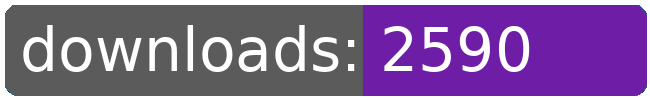
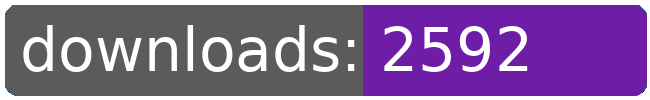
dl log written

Changed region(s): [[0.7692, 0.24, 0.8308, 0.72]]

diff --git a/README.md b/README.md
@@ -65,8 +65,8 @@
 		<td>138</td>
 		<td>178</td>
 		<td>215</td>
-		<td>247</td>
-		<td>+ 32</td>
+		<td>249</td>
+		<td>+ 34</td>
 	</tr>
 	<tr>
 		<td>gainpiraterep</td>
@@ -186,8 +186,8 @@
 		<td></td>
 		<td></td>
 		<td></td>
-		<td>2590</td>
-		<td>406</td>
+		<td>2592</td>
+		<td>408</td>
 	</tr>
 </table>
 </sub></sup>
@@ -256,8 +256,8 @@
 		<td>138</td>
 		<td>178</td>
 		<td>215</td>
-		<td>247</td>
-		<td>+ 32</td>
+		<td>249</td>
+		<td>+ 34</td>
 	</tr>
 	<tr>
 		<td>purchase.bactrian</td>
@@ -377,8 +377,8 @@
 		<td></td>
 		<td></td>
 		<td></td>
-		<td>2590</td>
-		<td>406</td>
+		<td>2592</td>
+		<td>408</td>
 	</tr>
 </table>
 </sub></sup>
